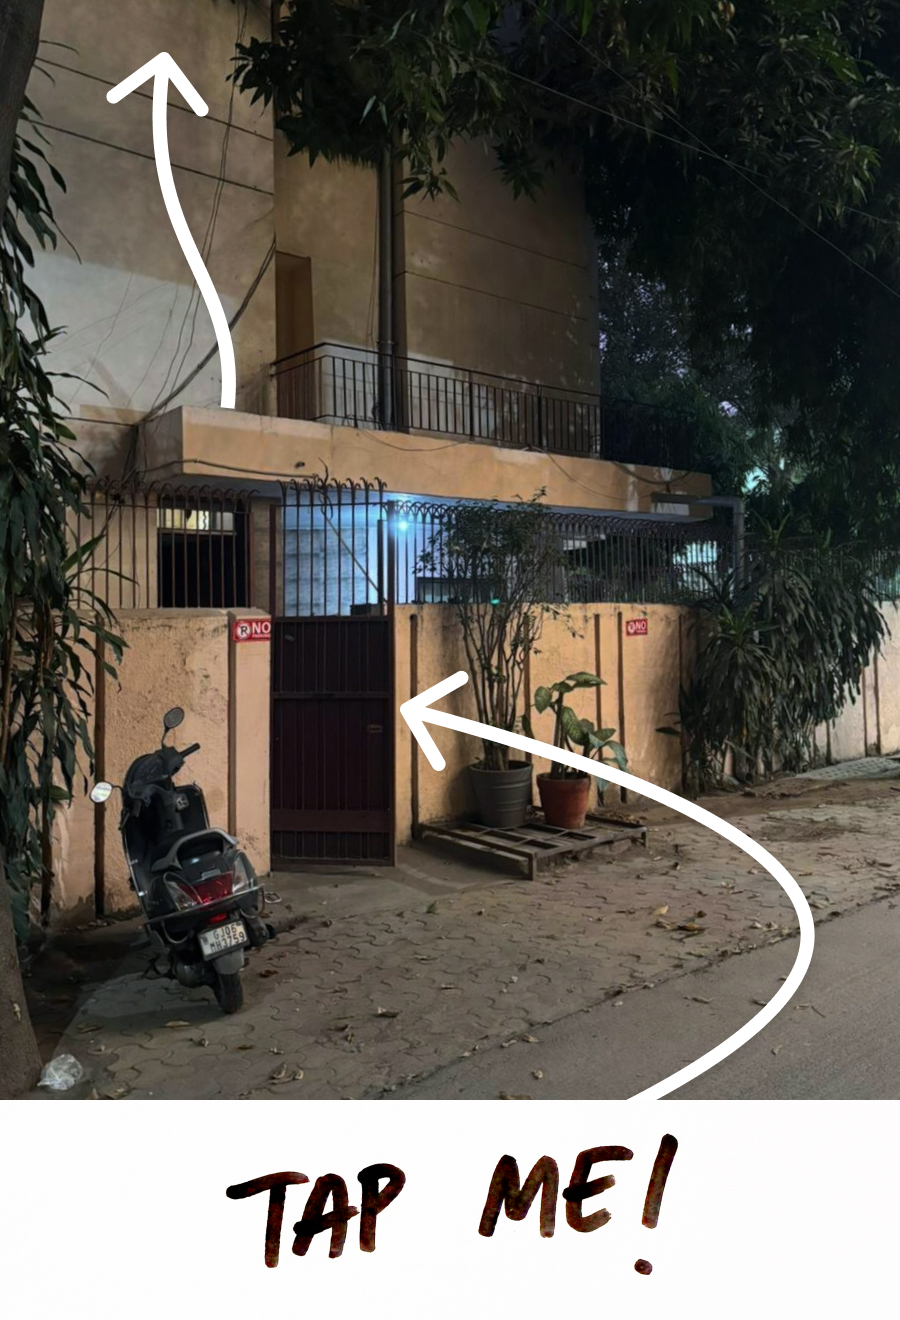
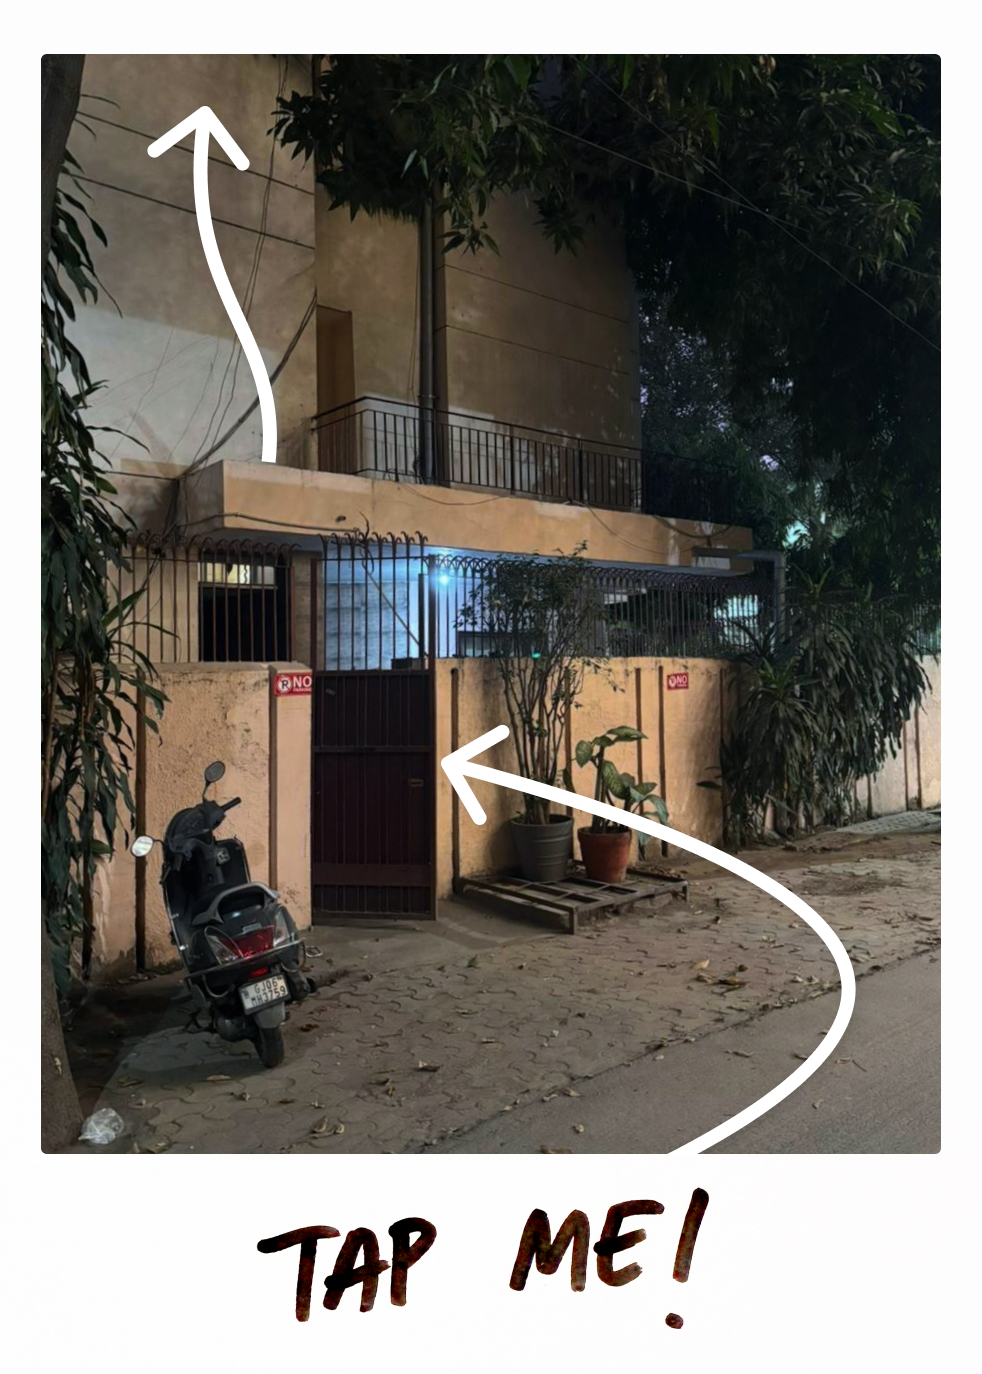
fix shit

diff --git a/index.html b/index.html
@@ -209,18 +209,16 @@
     right: 80px;
     top: 80px;
     width: 30%;
-    padding: 15px 15px 40px 15px;
-    background: var(--white);
     box-shadow: 2px 2px 40px rgba(0, 0, 0, 0.2);
     rotate: 10deg;
     transition: 0.5s cubic-bezier(0.3, 0.04, 0.65, 1);
-    border-radius: .5vw;
   }
 
   .polaroid img {
     width: 100%;
     height: auto;
     display: block;
+    border-radius: .5vw;
   }
 
   .polaroid-caption {
@@ -228,6 +226,18 @@
     margin-top: 15px;
     font-size: 1.2vw;
     color: var(--black);
+  }
+
+  @media (min-width: 768px) {
+
+  .polaroid-active {
+      right: 3vw;
+      margin: auto;
+      margin-top: 8vh;
+      width: 40%;
+      rotate: 0deg;
+      border-radius: 2.5vw;
+    }
   }
 
   @media (max-width: 768px) {
@@ -257,18 +267,24 @@
       width: 30%;
       top: 15vh;
       right: 5vw;
-      padding: 2vw;
       rotate: 10deg;
     }
 
+    .polaroid img {
+      border-radius: 1vw;
+      transition: 0.5s cubic-bezier(0.3, 0.04, 0.65, 1);
+    }
+
     .polaroid-active {
-      right: 7.5vw;
+      right: 5vw;
       margin: auto;
       margin-top: 5vh;
-      width: 75%;
+      width: 90%;
       rotate: 0deg;
-      padding: 5vw;
-      border-radius: 2.5vw;
+    }
+
+    .polaroid-active img {
+      border-radius: 2vw;
     }
   }
 </style>
